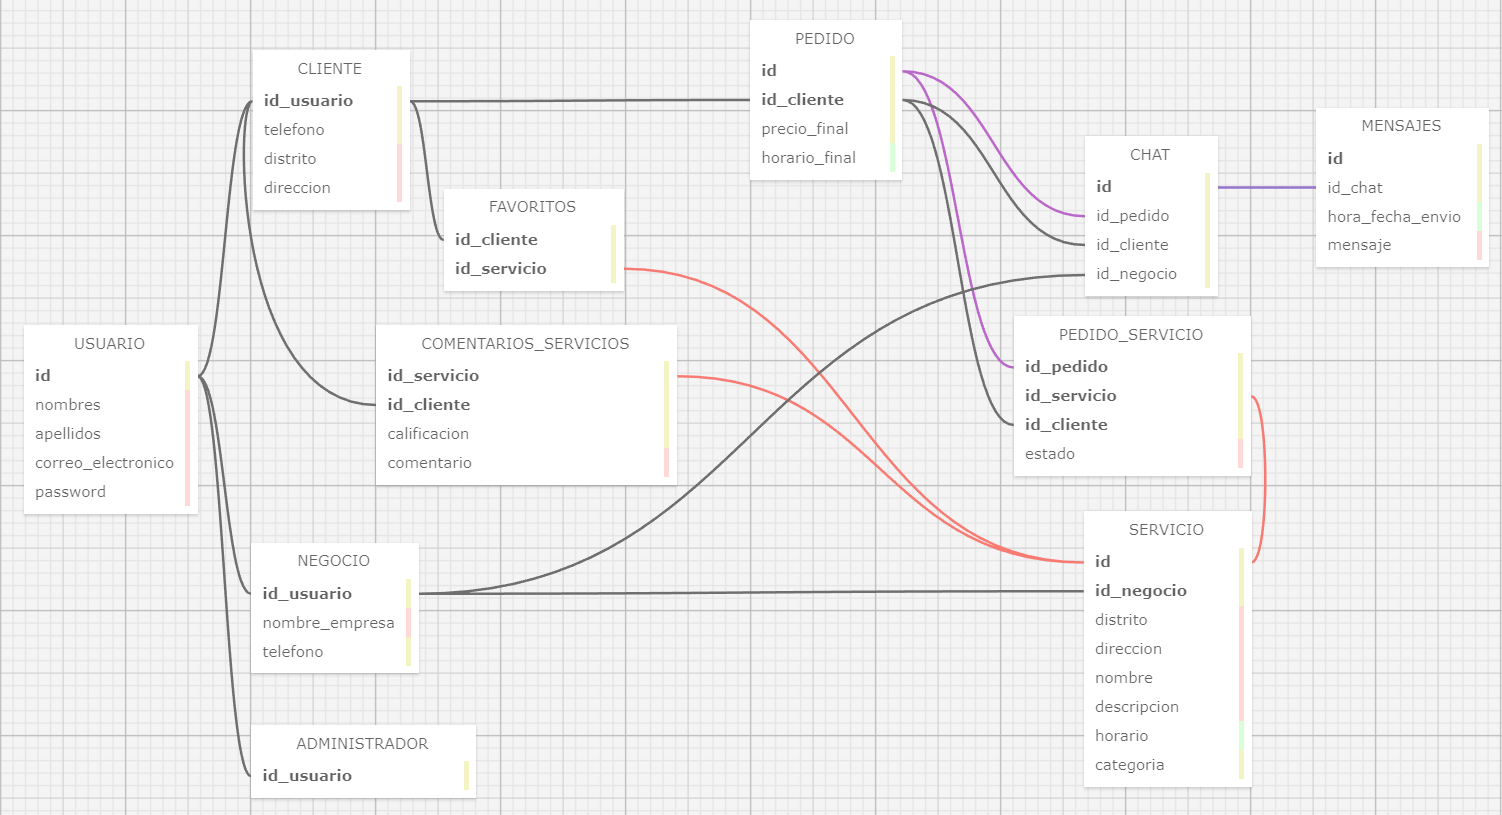
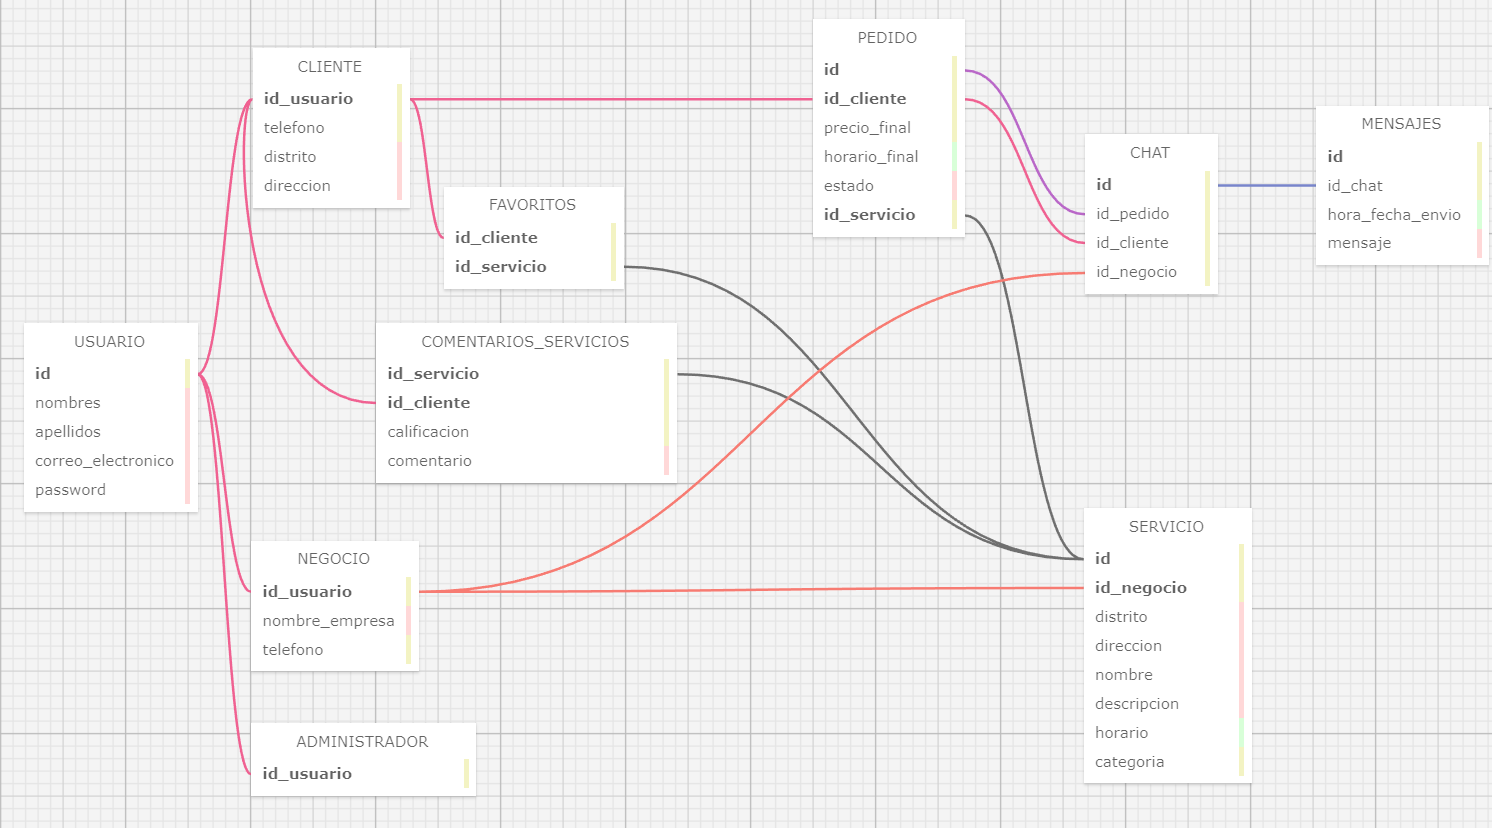
add: add seed data

diff --git a/Models/SeedData.cs b/Models/SeedData.cs
@@ -12,12 +12,62 @@ public static class SeedData {
             serviceProvider.GetRequiredService<
                 DbContextOptions<AppDBContext>>()))
         {
+            // Look for any usuarios.
+            if (context.Usuario.Any())
+            {
+                return;
+            }
+            context.Usuario.AddRange(
+                new Usuario{
+                    Nombres = "Juan",
+                    Apellidos = "Perez",
+                    CorreoElectronico = "juan@example.com",
+                    Password = "password123"
+                },
+                new Usuario{
+                    Nombres = "Maria",
+                    Apellidos = "Gonzalez",
+                    CorreoElectronico = "maria@example.com",
+                    Password = "password456"
+                },
+                new Usuario{
+                    Nombres = "Carlos",
+                    Apellidos = "Lopez",
+                    CorreoElectronico = "carlos@example.com",
+                    Password = "password789"
+                },
+                new Usuario{
+                    Nombres = "Laura",
+                    Apellidos = "Sanchez",
+                    CorreoElectronico = "laura@example.com",
+                    Password = "passwordabc"
+                },
+                new Usuario{
+                    Nombres = "Pedro",
+                    Apellidos = "Martinez",
+                    CorreoElectronico = "pedro@example.com",
+                    Password = "passwordxyz"
+                },
+                new Usuario{
+                    Nombres = "Ana",
+                    Apellidos = "Ramirez",
+                    CorreoElectronico = "ana@example.com",
+                    Password = "password123456"
+                },
+                new Usuario
+                {
+                    Nombres = "Luisa",
+                    Apellidos = "Villanueva",
+                    CorreoElectronico = "lvillanueva@unsa.edu.pe",
+                    Password = "password"
+                }
+            );
+
             // Look for any negocios.
             if (context.Negocio.Any())
             {
                 return;   // DB has been seeded
             }
-
             context.Negocio.AddRange(
                 new Negocio{
                     //Id = 1, database automatically assigns it.
@@ -27,6 +77,271 @@ public static class SeedData {
                 new Negocio{
                     NombreEmpresa = "Negocio 02",
                     Telefono = 123456789
+                }
+            );
+
+            // Look for any clientes.
+            if (context.Cliente.Any())
+            {
+                return;
+            }
+            context.Cliente.AddRange(
+                new Cliente{
+                    Telefono = 123456789,
+                    Distrito = "Miraflores",
+                    Direccion = "Av. Larco 123"
+                },
+                new Cliente{
+                    Telefono = 987654321,
+                    Distrito = "San Isidro",
+                    Direccion = "Av. Arequipa 456"
+                },
+                new Cliente{
+                    Telefono = 456789123,
+                    Distrito = "Surco",
+                    Direccion = "Av. Caminos del Inca 789"
+                },
+                new Cliente{
+                    Telefono = 789123456,
+                    Distrito = "La Molina",
+                    Direccion = "Av. Javier Prado 321"
+                }
+            );
+
+            // Look for any servicios.
+            if (context.Servicio.Any())
+            {
+                return;   
+            }
+            context.Servicio.AddRange(
+                new Servicio{
+                    Distrito = "Miraflores",
+                    Direccion = "Av. Larco 432",
+                    Nombre = "Servicio 01",
+                    Descripcion = "Descripción del servicio 01",
+                    HorarioInicio = TimeSpan.Parse("09:00"),
+                    HorarioFin = TimeSpan.Parse("18:00"),
+                    Categoria = "Servicio de Limpieza",
+                    NegocioID = 1
+                },
+                new Servicio{
+                    Distrito = "San Isidro",
+                    Direccion = "Av. Arequipa 245",
+                    Nombre = "Servicio 02",
+                    Descripcion = "Descripción del servicio 02",
+                    HorarioInicio = TimeSpan.Parse("10:00"),
+                    HorarioFin = TimeSpan.Parse("19:00"),
+                    Categoria = "Servicio de Limpieza",
+                    NegocioID = 1
+                },
+                new Servicio
+                {
+                    Distrito = "Surco",
+                    Direccion = "Av. Caminos del Inca 489",
+                    Nombre = "Servicio 03",
+                    Descripcion = "Descripción del servicio 03",
+                    HorarioInicio = TimeSpan.Parse("08:00"),
+                    HorarioFin = TimeSpan.Parse("17:00"),
+                    Categoria = "Servicio de Limpieza",
+                    NegocioID = 1
+                },
+                new Servicio
+                {
+                    Distrito = "La Molina",
+                    Direccion = "Av. Javier Prado 453",
+                    Nombre = "Servicio 04",
+                    Descripcion = "Descripción del servicio 04",
+                    HorarioInicio = TimeSpan.Parse("9:00"),
+                    HorarioFin = TimeSpan.Parse("20:00"),
+                    Categoria = "Servicio de Limpieza",
+                    NegocioID = 2
+                },
+                new Servicio
+                {
+                    Distrito = "San Borja",
+                    Direccion = "Av. Primavera 789",
+                    Nombre = "Servicio 05",
+                    Descripcion = "Descripción del servicio 05",
+                    HorarioInicio = TimeSpan.Parse("09:00"),
+                    HorarioFin = TimeSpan.Parse("18:00"),
+                    Categoria = "Servicio de Limpieza",
+                    NegocioID = 2
+                },
+                new Servicio
+                {
+                    Distrito = "Lince",
+                    Direccion = "Av. Arequipa 987",
+                    Nombre = "Servicio 06",
+                    Descripcion = "Descripción del servicio 06",
+                    HorarioInicio = TimeSpan.Parse("10:00"),
+                    HorarioFin = TimeSpan.Parse("19:00"),
+                    Categoria = "Servicio de Limpieza",
+                    NegocioID = 2
+                }
+            );
+
+            // Look for any pedidos.
+            if (context.Pedido.Any())
+            {
+                return;  
+            }
+            context.Pedido.AddRange(
+                new Pedido{
+                    PrecioFinal = 100.50m,
+                    HorarioFinal = DateTime.Now.AddDays(10),
+                    Estado = "Reservado",
+                    ClienteID = 3,
+                    ServicioID = 1
+                },
+                new Pedido{
+                    PrecioFinal = 75.20m,
+                    HorarioFinal = DateTime.Now,
+                    Estado = "En Domicilio",
+                    ClienteID = 4,
+                    ServicioID = 2
+                },
+                new Pedido{
+                    PrecioFinal = 200.00m,
+                    HorarioFinal = DateTime.Now.AddDays(-15),
+                    Estado = "Terminado",
+                    ClienteID = 5,
+                    ServicioID = 4
+                },
+                new Pedido{
+                    PrecioFinal = 150.75m,
+                    HorarioFinal = DateTime.Now,
+                    Estado = "Cancelado",
+                    ClienteID = 6,
+                    ServicioID = 5
+                }
+            );
+
+            // Look for any chats.
+            if (context.Chat.Any())
+            {
+                return;  
+            }
+            context.Chat.AddRange(
+                new Chat{
+                    NegocioID = 1,
+                    CienteID = 3,
+                    PedidoID = 1
+                },
+                new Chat{
+                    NegocioID = 1,
+                    CienteID = 4,
+                    PedidoID = 2
+                },
+                new Chat{
+                    NegocioID = 2,
+                    CienteID = 5,
+                    PedidoID = 3
+                },
+                new Chat{
+                    NegocioID = 2,
+                    CienteID = 6,
+                    PedidoID = 4
+                }
+            );
+
+            // Look for any mensajes.
+            if (context.Mensajes.Any())
+            {
+                return;
+            }
+            context.Mensajes.AddRange(
+                new Mensajes{
+                    HoraFechaEnvio = DateTime.Now,
+                    Mensaje = "Hola, ¿que tal?",
+                    ChatID = 1
+                },
+                new Mensajes{
+                    HoraFechaEnvio = DateTime.Now.AddMinutes(2),
+                    Mensaje = "Bien, gracias",
+                    ChatID = 1
+                },
+                new Mensajes{
+                    HoraFechaEnvio = DateTime.Now.AddMinutes(5),
+                    Mensaje = "Estoy interesado en tus servicios.",
+                    ChatID = 1
+                },
+                new Mensajes{
+                    HoraFechaEnvio = DateTime.Now.AddMinutes(7),
+                    Mensaje = "Perfecto, ¿cuál es tu disponibilidad?",
+                    ChatID = 1
+                },
+                new Mensajes{
+                    HoraFechaEnvio = DateTime.Now.AddMinutes(10),
+                    Mensaje = "¿Puedes hacerlo el proximo martes a las 10 AM?",
+                    ChatID = 1
+                },
+                new Mensajes{
+                    HoraFechaEnvio = DateTime.Now.AddMinutes(12),
+                    Mensaje = "Si. Nos vemos entonces.",
+                    ChatID = 1
+                },
+
+                new Mensajes{
+                    HoraFechaEnvio = DateTime.Now.AddMinutes(15),
+                    Mensaje = "Hola, estoy interesado en tu servicio.",
+                    ChatID = 2
+                },
+                new Mensajes{
+                    HoraFechaEnvio = DateTime.Now.AddMinutes(17),
+                    Mensaje = "Genial, ¿en qué puedo ayudarte?",
+                    ChatID = 2
+                },
+                new Mensajes{
+                    HoraFechaEnvio = DateTime.Now.AddMinutes(10),
+                    Mensaje = "¿Puedes hacerlo hoy a las 2 PM?",
+                    ChatID = 2
+                },
+                new Mensajes{
+                    HoraFechaEnvio = DateTime.Now.AddMinutes(12),
+                    Mensaje = "Si. Nos vemos entonces.",
+                    ChatID = 2
+                },
+
+                new Mensajes{
+                    HoraFechaEnvio = DateTime.Now.AddDays(-16),
+                    Mensaje = "Necesito más información sobre los precios.",
+                    ChatID = 3
+                },
+                new Mensajes{
+                    HoraFechaEnvio = DateTime.Now.AddDays(-16),
+                    Mensaje = "Claro, te puedo enviar una cotización detallada.",
+                    ChatID = 3
+                },
+                new Mensajes{
+                    HoraFechaEnvio = DateTime.Now.AddDays(-15),
+                    Mensaje = "¿Puedes hacerlo hoy las 2 PM?",
+                    ChatID = 3
+                },
+                new Mensajes{
+                    HoraFechaEnvio = DateTime.Now.AddDays(-15),
+                    Mensaje = "Si. Nos vemos entonces.",
+                    ChatID = 3
+                },
+
+                new Mensajes{
+                    HoraFechaEnvio = DateTime.Now.AddMinutes(15),
+                    Mensaje = "Hola, estoy interesado en tu servicio.",
+                    ChatID = 4
+                },
+                new Mensajes{
+                    HoraFechaEnvio = DateTime.Now.AddMinutes(17),
+                    Mensaje = "Genial, ¿en qué puedo ayudarte?",
+                    ChatID = 4
+                },
+                new Mensajes{
+                    HoraFechaEnvio = DateTime.Now.AddMinutes(10),
+                    Mensaje = "¿Puedes hacerlo hoy a las 3 PM?",
+                    ChatID = 4
+                },
+                new Mensajes{
+                    HoraFechaEnvio = DateTime.Now.AddMinutes(12),
+                    Mensaje = "No, disculpa.",
+                    ChatID = 4
                 }
             );
             

diff --git a/Models/AppContext.cs b/Models/AppContext.cs
@@ -17,8 +17,9 @@ public class AppDBContext : DbContext
     public DbSet<ProHogarApi.Models.Administrador> Administrador { get; set; } = default!;
     public DbSet<ProHogarApi.Models.Cliente> Cliente { get; set; } = default!;
     public DbSet<ProHogarApi.Models.Pedido> Pedido { get; set; } = default!;
-    public DbSet<ProHogarApi.Models.PedidoServicio> PedidoServicio { get; set; } = default!;
     public DbSet<ProHogarApi.Models.Chat> Chat { get; set; } = default!;
     public DbSet<ProHogarApi.Models.Mensajes> Mensajes { get; set; } = default!;
+    // public DbSet<ProHogarApi.Models.Favoritos> Favoritoss { get; set; } = default!;
+    // public DbSet<ProHogarApi.Models.ComentariosServicios> ComentariosServicios { get; set; } = default!;
 
 }

diff --git a/Models/ComentariosServicio.cs b/Models/ComentariosServicio.cs
@@ -1,0 +1,9 @@
+namespace ProHogarApi.Models;
+
+public class ComentariosServicios{
+    public int ComentariosServiciosID { get; set; }
+    public int Calificacion { get; set; }
+    public string? Comentario { get; set; }
+    public int ServiciosID { get; set; }
+    public int ClienteID { get; set; }
+}

diff --git a/Models/Pedido.cs b/Models/Pedido.cs
@@ -4,5 +4,7 @@ public class Pedido{
     public int PedidoID { get; set; }
     public decimal PrecioFinal { get; set; }
     public DateTime HorarioFinal { get; set; }
+    public string? Estado { get; set; }
     public int ClienteID { get; set; }
+    public int ServicioID { get; set; }
 }

diff --git a/Models/Favoritos.cs b/Models/Favoritos.cs
@@ -1,0 +1,6 @@
+namespace ProHogarApi.Models;
+
+public class Favoritos{
+    public int ClienteID { get; set; }
+    public int ServiciosID { get; set; }
+}
